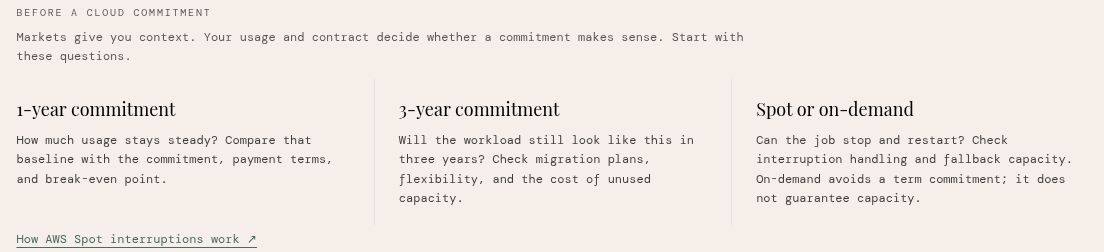
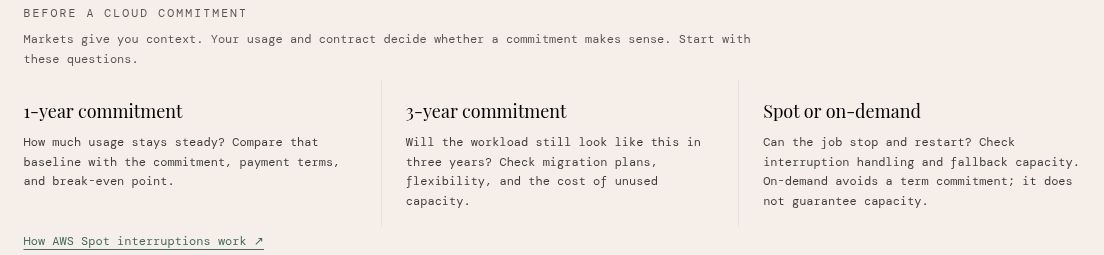
Refresh Market Tape previews with verified desktop and mobile captures

diff --git a/src/data/toolDirectory.ts b/src/data/toolDirectory.ts
@@ -82,7 +82,7 @@ export const directoryTools: DirectoryTool[] = [
     destination: 'market_tape', source: 'work_market_context', tone: 'sage',
     image: '/images/market-tape-snapshot-review.jpg',
     imageAlt: 'An actual Market Tape snapshot showing market internals, price-change periods, and momentum scores',
-    imageWidth: 1104, imageHeight: 472,
+    imageWidth: 1104, imageHeight: 551,
     companion: { label: 'Read the snapshot with me', href: '/insights/using-market-tape' },
   },
   {

diff --git a/docs/reviews/market-tape-review-2026-10-23.md b/docs/reviews/market-tape-review-2026-10-23.md
@@ -60,10 +60,21 @@ App PR #23, merged as 7e2ae376e749e1d7914114927f823673b0d07eee, deployed success
 - App tests: 18 regression tests, benchmark checks, TypeScript and build passed. Site tests: 109 passed before the environment interruption. Companion copy/reflow is compiled by the Vercel preview/production build.
 - Browser verified live desktop metrics, 48 unique table rows, seven menu entries (directory plus six tools), cache feedback, and 375px phone layout without horizontal overflow.
 
-### Capture interruption and next work
+### Captures completed after reconnecting
 
-The execution environment and browser disconnected during new screenshot capture. Fresh 2x screenshot assets were not completed or published. The guide removes the outdated market capture rather than present obsolete breadth figures; on phones, cloud-review questions use readable native text rather than a tiny wide screenshot. The tools-directory capture remains the previous dated layout until a fresh capture can be made.
+The workspace and browser reconnected. Fresh, actual-interface captures now replace the previous layouts:
 
-Resume with real screenshots from the current deployment: desktop market internals/momentum for the directory, equity status for the guide, and a 2x phone capture. Do not use mockups as screenshots. The approved homepage remains untouched.
+| Asset | Dimensions | Purpose |
+| --- | --- | --- |
+| market-tape-snapshot-review.jpg | 1104 × 551 | Tool-directory internals, corrected macro comparisons and momentum |
+| market-tape-equity-review.jpg | 1104 × 648 | Desktop guide: equity summaries and technology context |
+| market-tape-snapshot-mobile.jpg | 720 × 440 | Double-resolution phone crop of equity breadth, capped in display width |
+| market-tape-cloud-review.jpg | 1104 × 255 | Desktop fixed review questions |
+
+No mockups or invented values. The phone guide retains native text for cloud questions rather than shrinking the wide image. Alt text describes the actual breadth crop. The original October 22 source date stays explicit.
+
+Screenshot review exposed a crowded macro row. App PR #24, production main 0f4d07fc2fce55d4664f8806b3565a59e828aaaf, puts the value and score on separate lines with a consistent label gap. Its 18 regression tests and build pass. The final capture uses this deployed layout.
+
+The companion site passes 109 tests and its production build. Browser checks confirm the phone guide selects the 720px image at a 320px display width, with no horizontal overflow, and uses readable native cloud questions. These are viewport checks, not physical-device tests.
 
 History is the next useful product upgrade: store dated snapshots and offer a 5–20-session change view. A commitment-payment calculator and reliable current valuation source are separate improvements.
